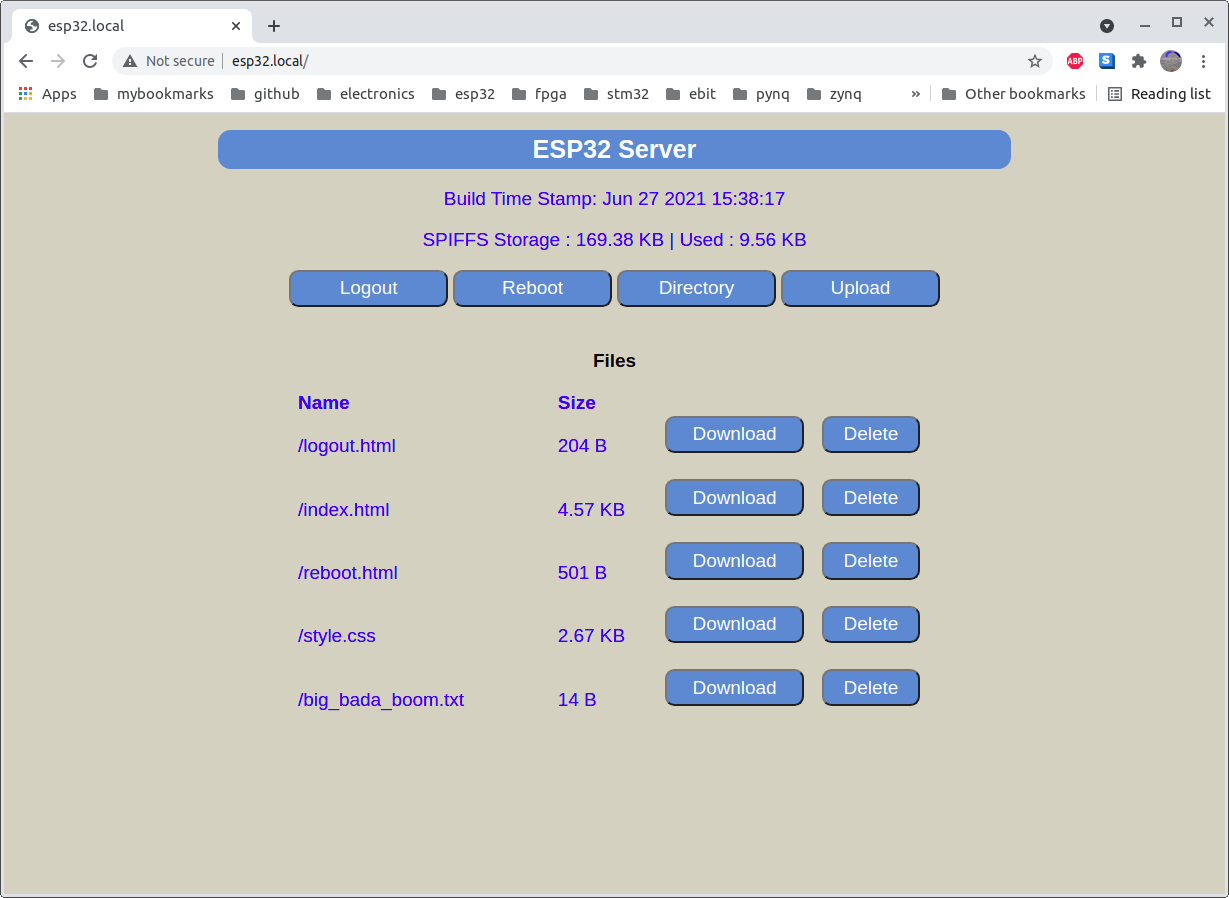
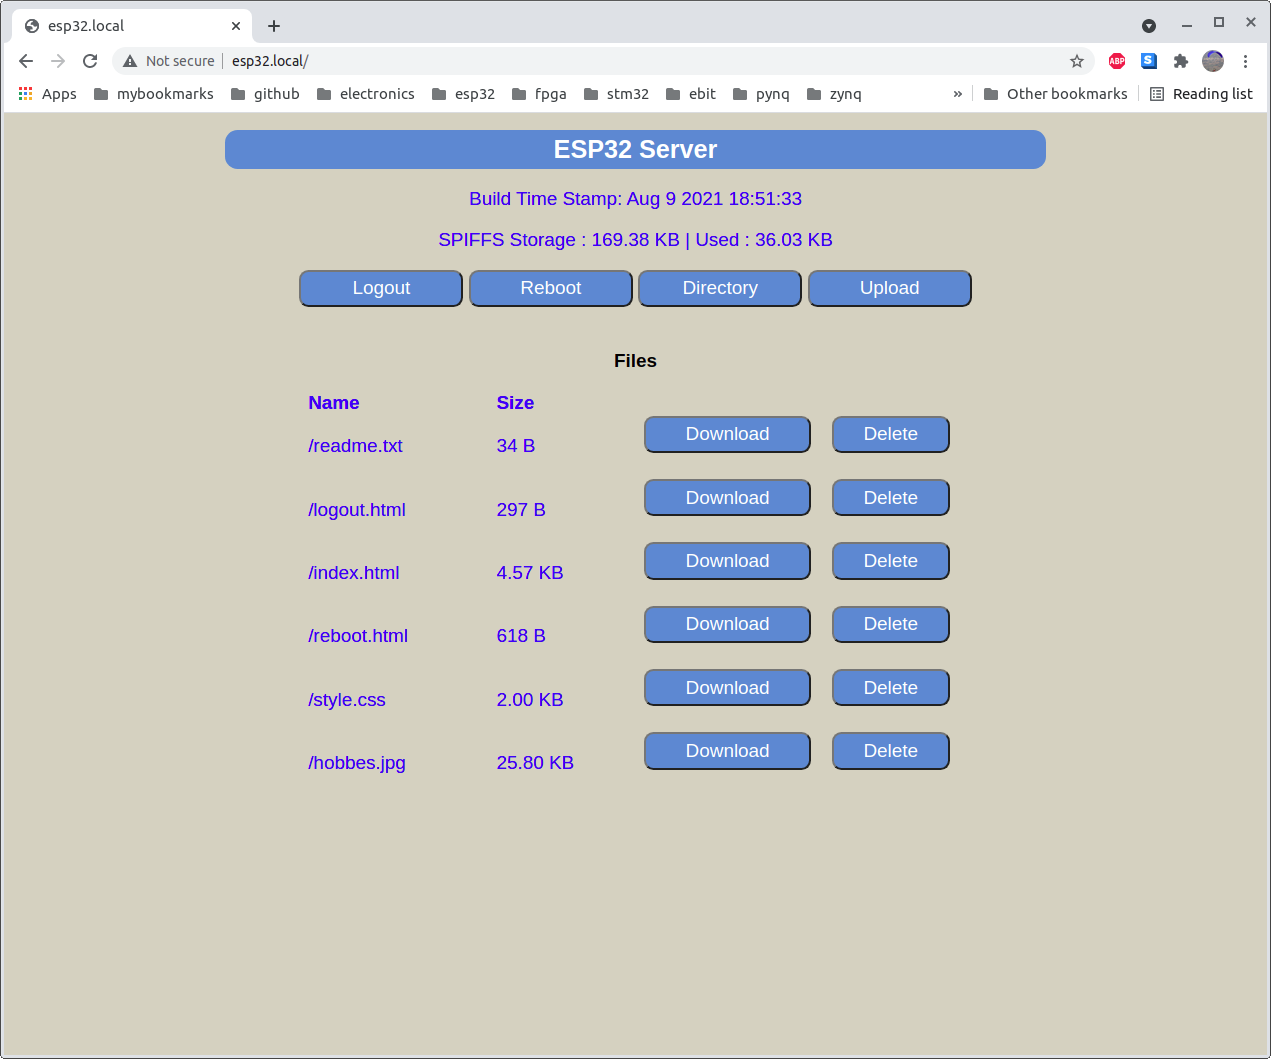
chunked file download

diff --git a/src/async_server.cpp b/src/async_server.cpp
@@ -12,7 +12,7 @@
 // https://randomnerdtutorials.com/esp32-web-server-spiffs-spi-flash-file-system/
 
 // connect to existing WiFi access point as a station
-#define STATION_WEBSERVER
+//#define STATION_WEBSERVER
 
 typedef struct WIFI_CONFIG_ {
   String ssid;               // wifi ssid
@@ -35,6 +35,7 @@ const String default_httppassword = "admin";
 const int default_webserverporthttp = 80;
 
 static WIFI_CONFIG config;    
+static File SpiffsFile;
 
 static String server_directory(bool ishtml = false);
 static void server_not_found(AsyncWebServerRequest *request);
@@ -45,6 +46,7 @@ static String server_string_processor(const String& var);
 static void server_configure();
 static String server_ui_size(const size_t bytes);
 static void server_handle_OTA_update(AsyncWebServerRequest *request, String filename, size_t index, uint8_t *data, size_t len, bool final);
+static int spiffs_chunked_read(uint8_t* buffer, int maxLen);
 
 
 void server_init() {
@@ -176,6 +178,22 @@ static String server_string_processor(const String& var) {
     }
 
 
+static int spiffs_chunked_read(uint8_t* buffer, int maxLen) {              
+  //Serial.printf("MaxLen = %d\n", maxLen);
+  if (!SpiffsFile.available()) {
+    SpiffsFile.close();
+    return 0;
+    }
+  else {
+    int count = 0;
+    while (SpiffsFile.available() && (count < maxLen)) {
+      buffer[count] = SpiffsFile.read();
+      count++;
+      }
+    return count;
+    }
+}
+
 void server_configure() {
   // if url isn't found
   server->onNotFound(server_not_found);
@@ -252,33 +270,65 @@ void server_configure() {
         if (!SPIFFS.exists(fileName)) {
           Serial.println(logmessage + " ERROR: file does not exist");
           request->send(400, "text/plain", "ERROR: file does not exist");
-        } else {
+          } 
+        else {
           Serial.println(logmessage + " file exists");
           if (strcmp(fileAction, "download") == 0) {
             logmessage += " downloaded";
-            request->send(SPIFFS, fileName, "application/octet-stream");
-          } else if (strcmp(fileAction, "delete") == 0) {
+            SpiffsFile = SPIFFS.open(fileName, "r");
+            int sizeBytes = SpiffsFile.size();
+            Serial.println("large file, chunked download required");
+            AsyncWebServerResponse *response = request->beginResponse("application/octet-stream", sizeBytes, [](uint8_t *buffer, size_t maxLen, size_t index) -> size_t {
+              return spiffs_chunked_read(buffer, maxLen);
+              });
+            char szBuf[80];
+            sprintf(szBuf, "attachment; filename=%s", &fileName[1]);// get past the leading '/'
+            response->addHeader("Content-Disposition", szBuf);
+            response->addHeader("Connection", "close");
+            request->send(response);
+            } 
+          else 
+          if (strcmp(fileAction, "delete") == 0) {
             logmessage += " deleted";
             SPIFFS.remove(fileName);
             request->send(200, "text/plain", "Deleted File: " + String(fileName));
-          } else {
+            } 
+          else {
             logmessage += " ERROR: invalid action param supplied";
             request->send(400, "text/plain", "ERROR: invalid action param supplied");
-          }
+            }
           Serial.println(logmessage);
-        }
-      } else {
-        request->send(400, "text/plain", "ERROR: name and action params required");
+          }
+      } 
+    else {
+      request->send(400, "text/plain", "ERROR: name and action params required");
       }
-    } else {
-      logmessage += " Auth: Failed";
-      Serial.println(logmessage);
-      return request->requestAuthentication();
+    } 
+  else {
+    logmessage += " Auth: Failed";
+    Serial.println(logmessage);
+    return request->requestAuthentication();
     }
   });
 }
 
-
+#if 0
+void read_file_chunk(uint8_t* buffer, int maxlen) {
+      int bytesRemaining = (int)(FlashLogFreeAddress - flashAddr);
+      do {
+         int numXmitBytes =  bytesRemaining > 256 ? 256 : bytesRemaining;  
+		   spiflash_readBuffer(flashAddr, buffer, numXmitBytes);
+         pServer->sendContent_P((const char*)buffer, numXmitBytes);
+         flashAddr += numXmitBytes;
+         bytesRemaining = (int)(FlashLogFreeAddress - flashAddr);
+         delayMs(10);
+		   } while (bytesRemaining >= 0);
+	   }
+   else {
+      server_reportFileNotFound("datalog"); 
+      }
+   }
+#endif
 
 static void server_not_found(AsyncWebServerRequest *request) {
   String logmessage = "Client:" + request->client()->remoteIP().toString() + " " + request->url();

diff --git a/README.md b/README.md
@@ -20,10 +20,12 @@ appearance without recompiling a new binary.
 
 ## Credits
 
-This is a mashup of functionality from the following repositories, with added OTA update feature.
+This is a mashup of functionality from the following repositories :
 * https://github.com/smford/esp32-asyncwebserver-fileupload-example
 * https://randomnerdtutorials.com/esp32-web-server-spiffs-spi-flash-file-system/
-
+Additional features added :
+* OTA firmware update
+* Chunked file downloads
 
 ## Project Notes
 
